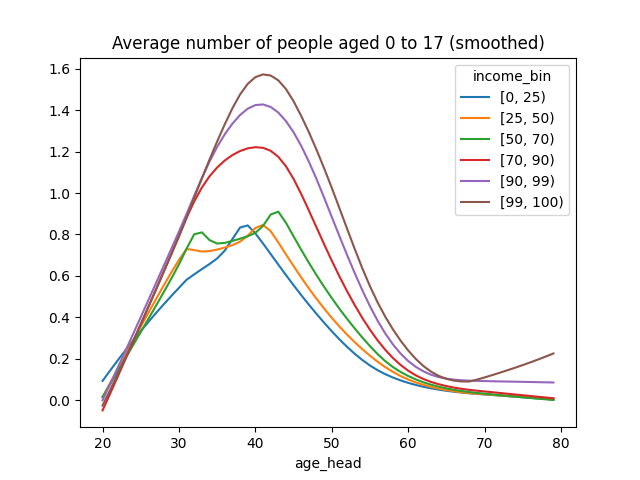
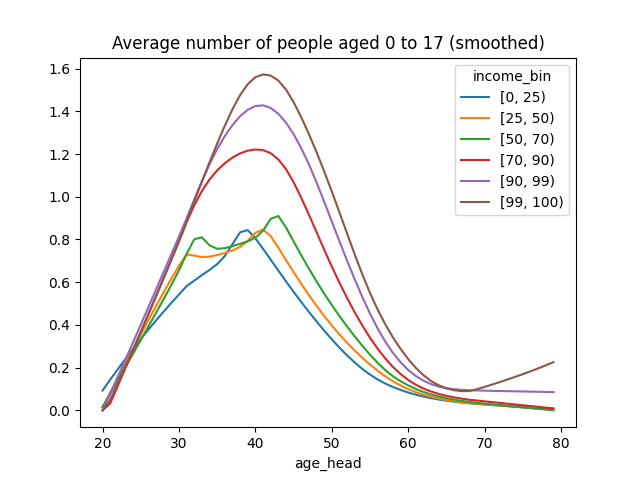
Avoid negative smoothed values

diff --git a/ogusa_calibrate/hh_composition.py b/ogusa_calibrate/hh_composition.py
@@ -68,14 +68,14 @@ sj = (
 
 
 def smooth(x, y, frac=0.4):
-    """ Produces LOESS smoothed data.
-    """
-    return pd.Series(sm.nonparametric.lowess(y, x, frac=frac)[:, 1], index=x)
+    """Produces LOESS smoothed data."""
+    return np.maximum(
+        pd.Series(sm.nonparametric.lowess(y, x, frac=frac)[:, 1], index=x), 0
+    )
 
 
 def smooth_all(data):
-    """ Return smoothed versions of nu18, n1864, n65.
-    """
+    """Return smoothed versions of nu18, n1864, n65."""
     return data.groupby(["income_bin", "age_group"]).apply(
         lambda x: smooth(x.age_head, x.n)
     )
@@ -109,8 +109,8 @@ combined_long.n += combined_long.add_head
 
 
 def plot(data):
-    """ Produces and exports a plot of household size by age_head, with lines for each income bin.
-        The title and filename reflect the age group and whether the data is smoothed based on the first record.
+    """Produces and exports a plot of household size by age_head, with lines for each income bin.
+    The title and filename reflect the age group and whether the data is smoothed based on the first record.
     """
     age_group = data.age_group.iloc[0]
     smoothed = data.smoothed.iloc[0]
